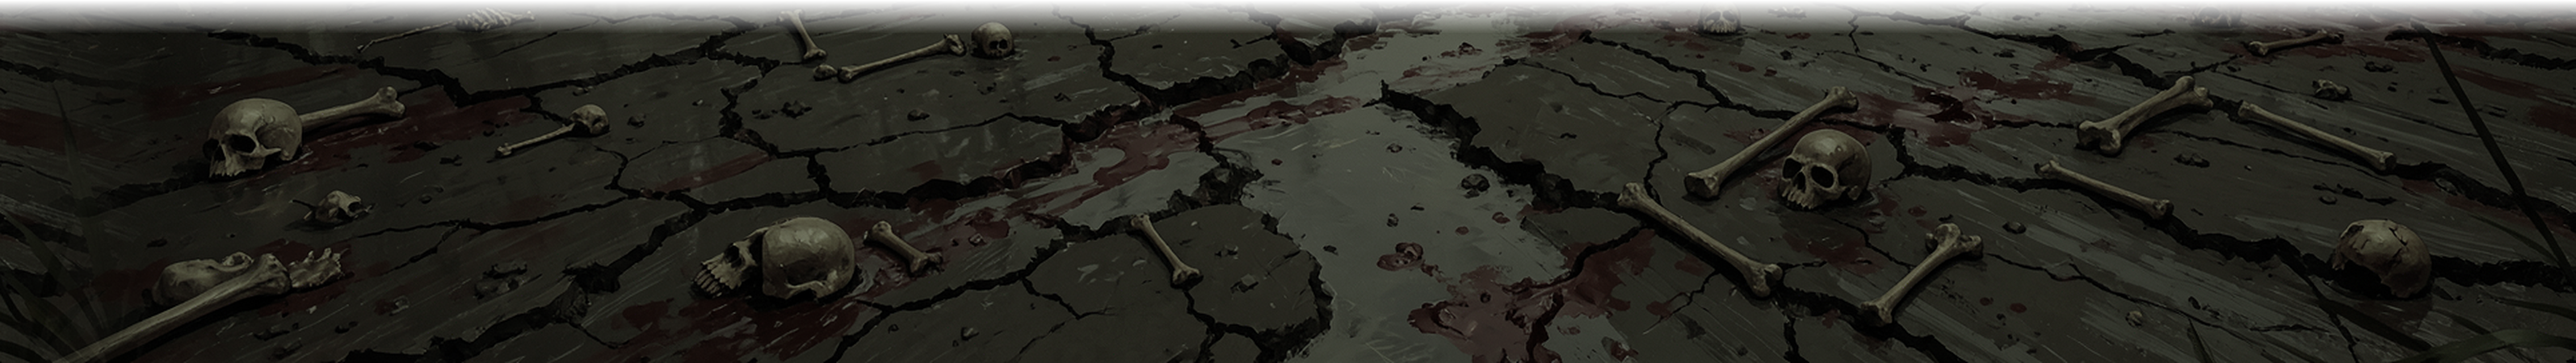
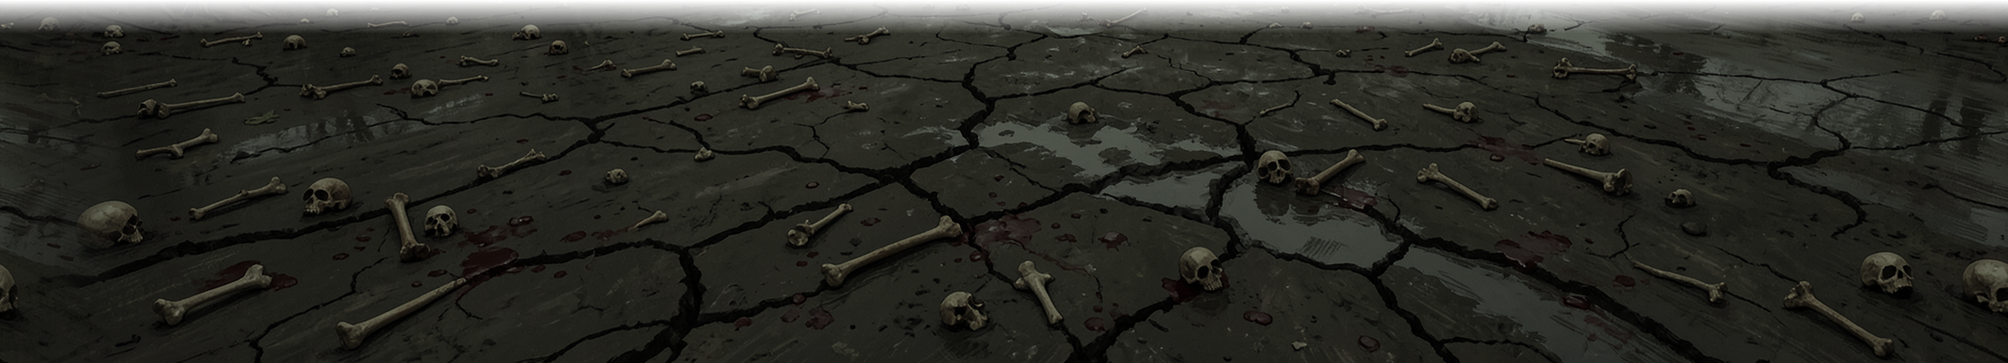
Močál: zem z dálky s drobnými detaily, voda bez purpurových zbytků
Claude-Session: https://claude.ai/code/session_015jCRZS7ASg3pqxo763VEwg

diff --git a/tools/build_bg.py b/tools/build_bg.py
@@ -25,7 +25,7 @@ GRIM = ["14100e", "1e1814", "29211b", "352a22", "42352a", "514133", "62503f", "7
         "642a22", "7e3a2a", "8c7f68", "a89a7e", "4a4a52", "686470",
         "1f2a1c", "2c3a26", "3c4c30", "4e5e3a", "62704a", "7a845a"]  # tlumené zelené (voda, rákos)
 # výřez země z obrázku (zlomky šířky/výšky), aby nebyly vidět kořeny na okrajích
-GROUND_CROP = {"swamp": (0.0, 0.47, 1.0, 1.0)}
+GROUND_CROP = {"swamp": (0.0, 0.32, 1.0, 1.0)}
 
 
 BAYER = np.array([[0, 8, 2, 10], [12, 4, 14, 6], [3, 11, 1, 9], [15, 7, 13, 5]]) / 16.0 - 0.5
@@ -152,7 +152,13 @@ def main(biome):
     wpath = f"{src}/grim_{biome}_water.png"
     if os.path.exists(wpath):
         m = np.asarray(Image.open(wpath).convert("RGB")).astype(int)
-        mag = (m[..., 0] > 160) & (m[..., 2] > 160) & (m[..., 1] < 120)
+        mag = (m[..., 0] > 110) & (m[..., 2] > 100) & (m[..., 1] < 0.72 * np.minimum(m[..., 0], m[..., 2]))
+        mag = ndimage.binary_dilation(mag, iterations=2)
+        # zbytky purpurové barvy na okrajích ztlumit
+        m = m.copy()
+        tint = (m[..., 0] + m[..., 2]) / 2 > m[..., 1] * 1.15
+        m[tint, 0] = m[tint, 1]
+        m[tint, 2] = m[tint, 1]
         fg = ndimage.binary_opening(~mag, iterations=2)
         lab, n = ndimage.label(fg)
         sizes = ndimage.sum(fg, lab, range(n + 1))
